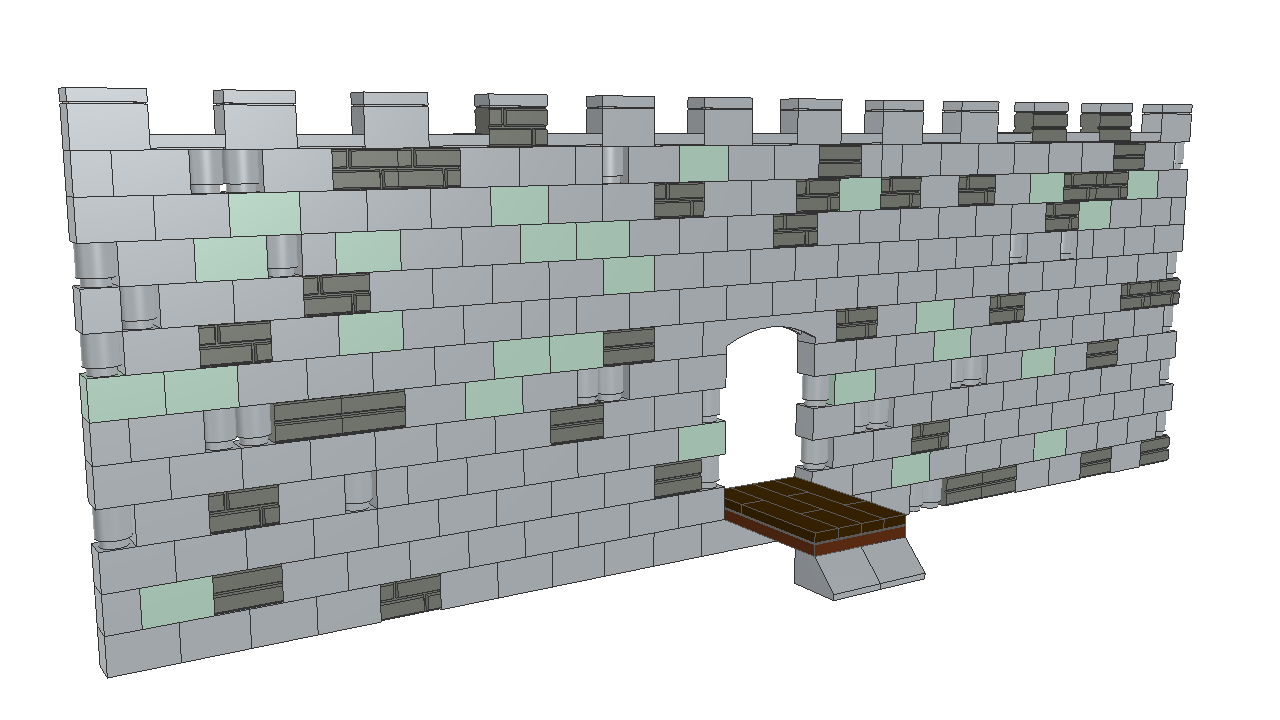
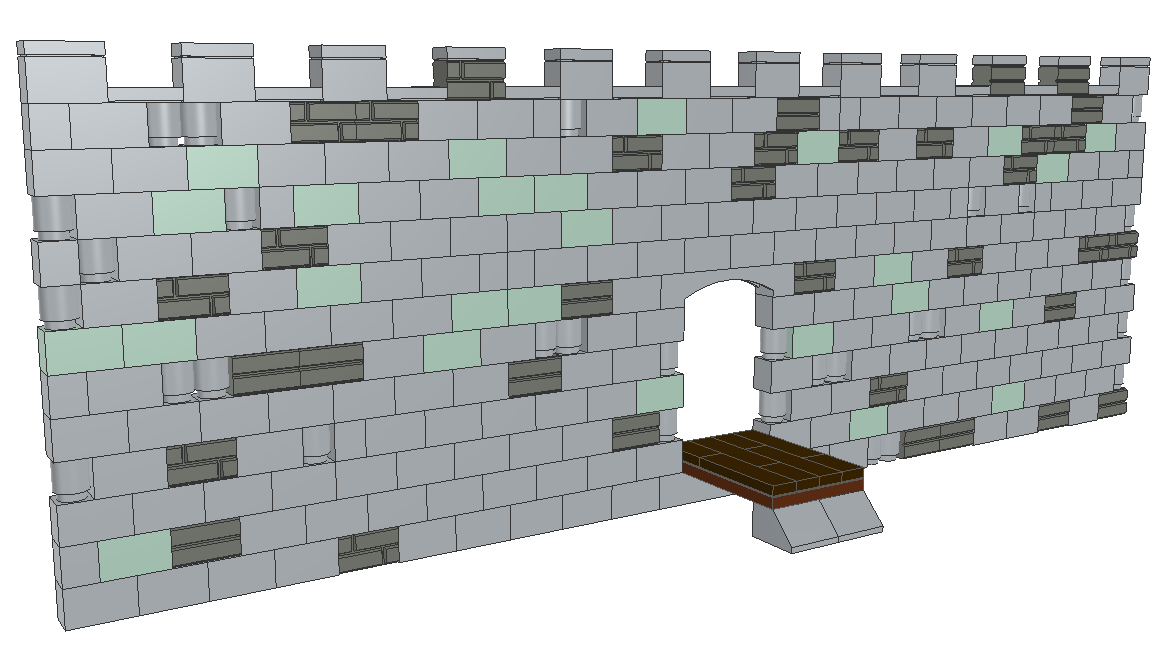
Cropped images

diff --git a/readme.md b/readme.md
@@ -334,6 +334,8 @@ SetColor(71)
 
 We can then expand this within the bounds of our previous wall and generate a wall surrounding our drawbridge:
 
+![](examples/castle-human-aug.png)
+
 ![](examples/castle-aug.gif)
 
 Height Map Example
